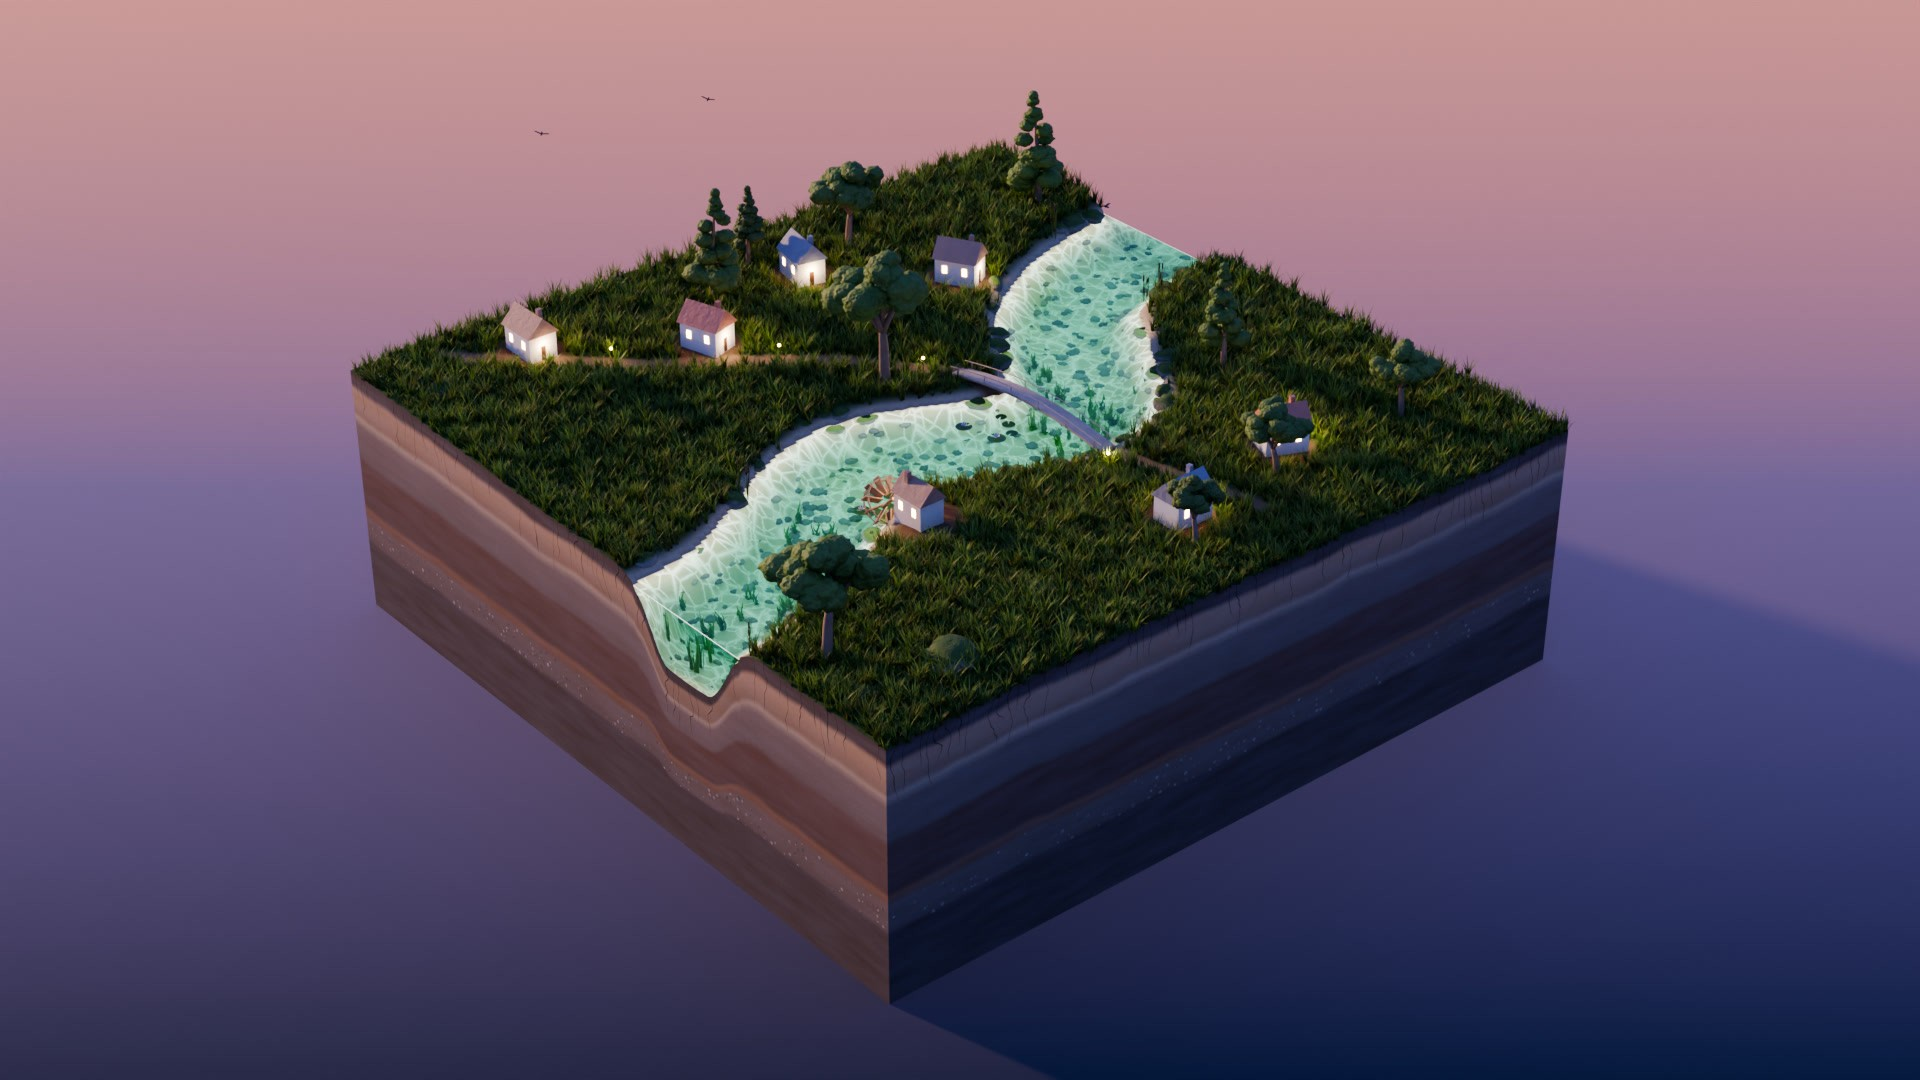
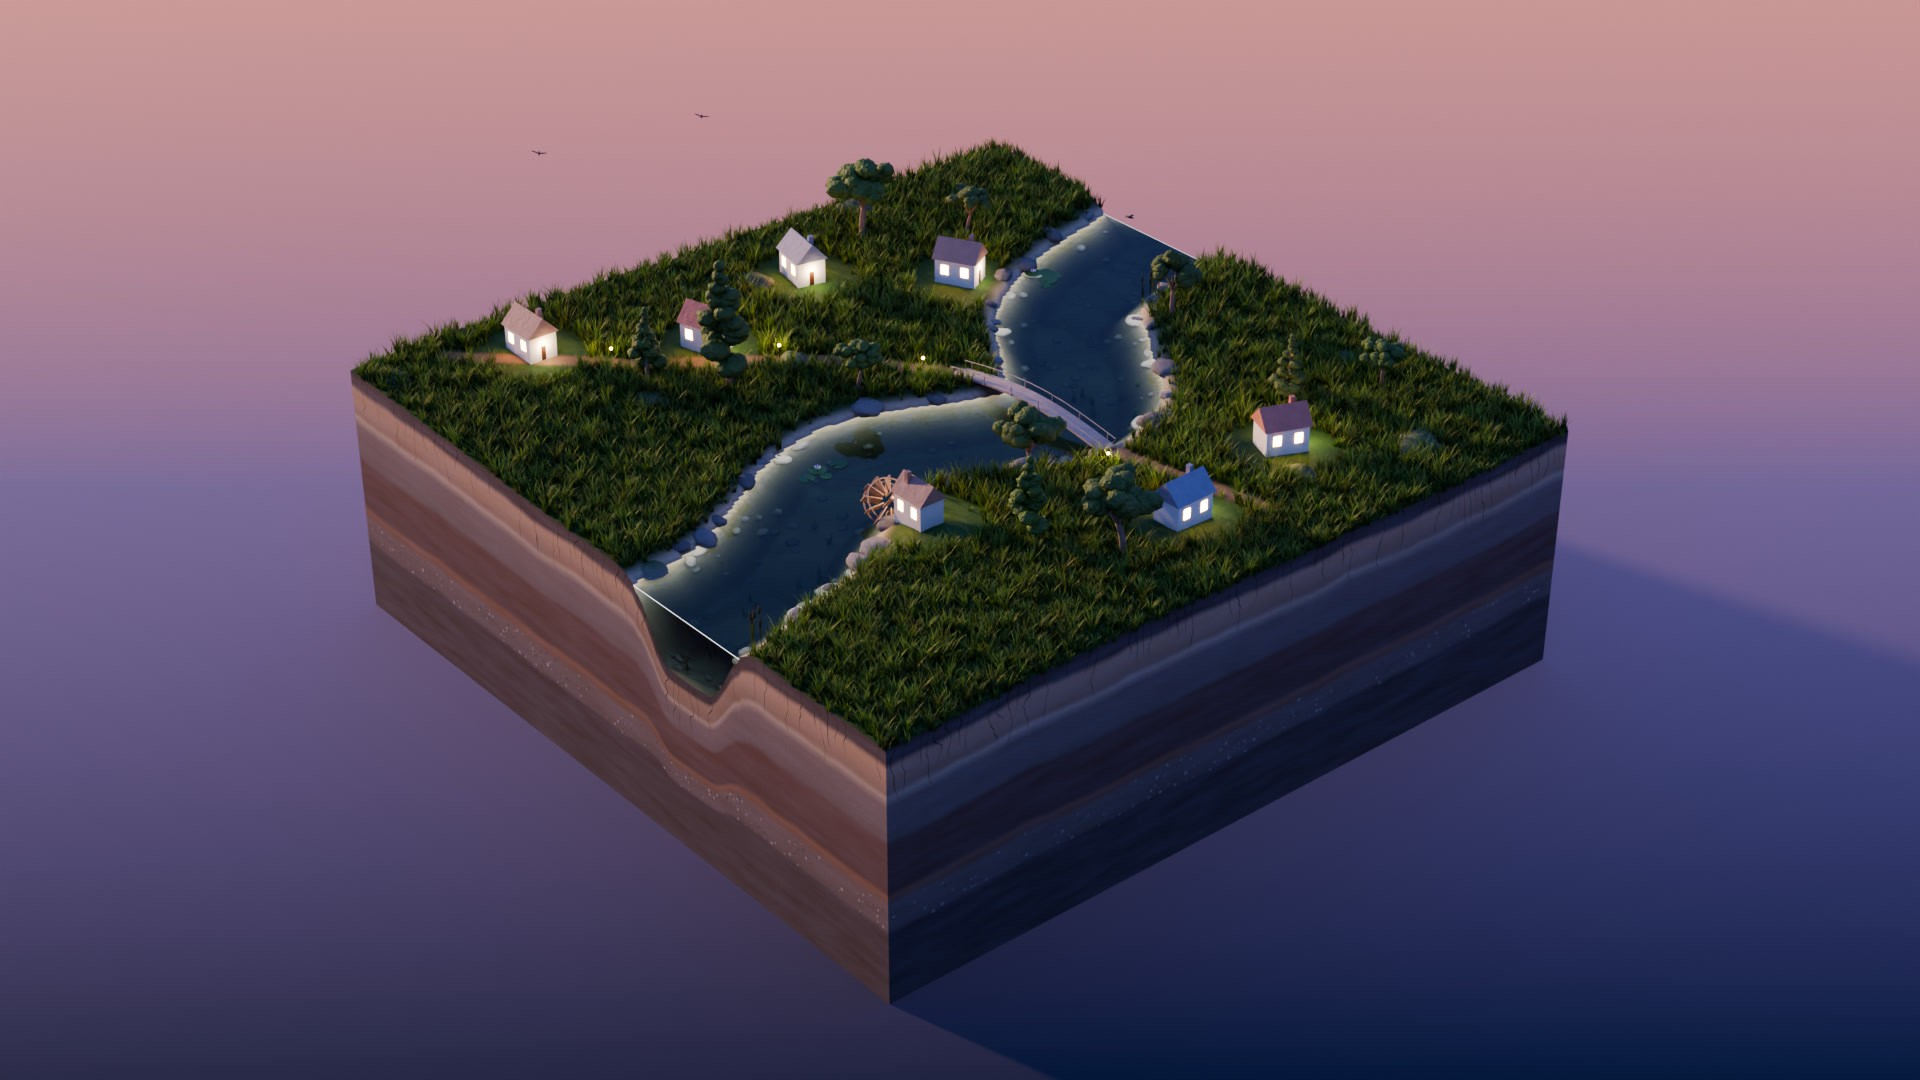
Cutaway: board C lagoon and D mill at dusk (calm water); kit defaults folded in (calm water, round and conifer trees, 9:16 camera lower and fuller); README API and costs
Claude-Session: https://claude.ai/code/session_01CmrfyBEQR6D43ePLhNBsAa

Changed region(s): [[0.1875, 0.0917, 0.8125, 0.6722]]

diff --git a/films/styles/cutaway/cutaway.py b/films/styles/cutaway/cutaway.py
@@ -539,7 +539,7 @@ class Land:
     pass
 
 def block(kit, size=(4.0, 4.0), depth=1.4, strata=None, top=None, water=None, seed=1, season='summer', zones=None,
-          res=0.022, grass=1.0, grass_height=1.0, trees=10, tree_kinds=('round', 'round', 'cone', 'tall'), tree_scale=1.0, boulders=12,
+          res=0.022, grass=1.0, grass_height=1.0, trees=10, tree_kinds=('round', 'round', 'cone'), tree_scale=1.0, boulders=12,
           flowers=0.5, under=True, lilies=0, reeds=0.0, corals=0, shore_rock=0.0, keep_clear=(), tree_spots=None,
           sway=1.0, water_tint=(0.24, 0.82, 0.78), water_density=2.6, water_glow=0.022, bed=((0.80, 0.74, 0.58), (0.70, 0.65, 0.52)), caustics=0.5, bottom=None, name='cw_block'):
     """Build the block. Returns a Land.
@@ -1247,10 +1247,14 @@ class Cam:
             self.pose(base + deg_per_s * duration * e, el, dist)
         else: self.pose(base + deg_per_s * t, el, dist)
 
-def camera(kit, land=None, aspect='16:9', az=-40.0, el=32.0, lens=60.0, fill=0.86, target=None, dist=None, top_extra=0.45, bottom_extra=0.0, name='cw_cam'):
-    """High three-quarter product camera. aspect '16:9' or '9:16' (or a float w/h). fill = fraction of the frame the block
+def camera(kit, land=None, aspect='16:9', az=-40.0, el=None, lens=60.0, fill=None, target=None, dist=None, top_extra=0.45, bottom_extra=0.0, name='cw_cam'):
+    """High three-quarter product camera. aspect '16:9' or '9:16' (or a float w/h); el and fill default per aspect
+    (16:9: el 32, fill 0.86; 9:16: el 27, fill 0.93). fill = fraction of the frame the block
     spans (its bounding box from bottom to top_extra above z=0, so trees fit); the target is re-centred and dist computed
     to fit unless given. Sets scene.camera and the render resolution aspect is the caller's."""
+    vert = aspect == '9:16' or (not isinstance(aspect, str) and float(aspect) < 1)
+    el = (27.0 if vert else 32.0) if el is None else el            # 9:16: lower and closer, so the cut face is big
+    fill = (0.93 if vert else 0.86) if fill is None else fill
     bpy = kit.bpy; cd = bpy.data.cameras.new(name); cd.lens = lens; cd.sensor_width = 36.0; cd.sensor_fit = 'AUTO'
     cd.clip_start = 0.05; cd.clip_end = 200
     ob = bpy.data.objects.new(name, cd); kit.coll.objects.link(ob); bpy.context.scene.camera = ob

diff --git a/films/styles/cutaway/README.md b/films/styles/cutaway/README.md
@@ -62,7 +62,14 @@ those faces (run a river path past the edge, put a pond centre near the edge).
 | `under`, `corals`, `lilies`, `reeds` | underwater stones and weed (True), coral count (0), lily pad count (0), reeds 0..1 (0) |
 | `shore_rock` | 0..1 pale cracked rock shelf around the water (lagoon look) |
 | `keep_clear` | `[(x, y, r)]` no grass or trees there (for buildings) |
-| `sway`, `water_tint`, `water_density` | wind amount, water absorption colour and density |
+| `tree_scale` | multiplies every tree's size (1) |
+| `sway`, `water_tint`, `water_density`, `water_glow` | wind amount; water absorption colour and density; faint turquoise in-scatter glow (0.022; use 0 at dusk or night) |
+| `bed`, `caustics` | two sRGB tones of the sandy underwater floor; strength of the soft caustic bands on the floor (0.5; 0.2 at dusk) |
+
+Defaults are the reviewed ones (22 Oct board): calm water (soft wide caustics on the bed only, gentle low-frequency
+ripple normals, a thin bright meniscus where the surface meets the cut face), round and conifer trees (the `tall` poplar
+reads toy-like at large scale), sparse short underwater weed (dense weed reads as dirt through the glass).
+`keep_clear` circles remove grass blades, flowers, trees and boulders but keep the ground green (for buildings).
 
 `Land` fields and methods: `size`, `depth`, `level`, `pal`, `objects` (dict: `top`, `walls`, `water`, `cw_grass`, ...),
 `mats`, `height(x, y)`, `field(x, y)` (h, signed distance to water, zone weights, depth below the water),
@@ -82,9 +89,15 @@ to the block so it ends flush on the cut faces), `place(obj, x, y, dz)` (stand a
 - `cw.studio(kit, color, key_az, key_el, key, angle, fill, land, shadows)` seamless matte floor, soft key sun, fill; `shadows` > 0 adds drifting cloud shadows.
 - `cw.sky(kit, top, horizon, sun_az, sun_el, sun, clouds, mist, land)` floating-island sky: gradient, cloud cards, mist layers, cloud shadows.
 - `cw.dusk(kit, top, horizon, floor, sun_az, sun_el, sun, land)` dusk studio: blue-to-amber, low warm sun, cool fill.
-- `cw.birds(kit, n, center, radius, height)`; `cw.falling_stones(kit, land, n)`; `cw.cloud_shadows(kit, opacity)`.
-- `cw.camera(kit, land, aspect='16:9'|'9:16', az, el, lens, fill, target, dist)` returns a `Cam`: `pose(az, el, dist, target)`,
-  `orbit(t, deg_per_s, duration)`. Distance is computed so the block fills `fill` of the frame in either aspect.
+- `cw.birds(kit, n, center, radius, height)`; `cw.falling_stones(kit, land, n)`; `cw.hanging_roots(kit, land, n)` (floating block);
+  `cw.cloud_shadows(kit, opacity)` (drifting light).
+- `cw.camera(kit, land, aspect='16:9'|'9:16', az, el, lens, fill, target, dist, top_extra)` returns a `Cam`: `pose(az, el, dist, target)`,
+  `orbit(t, deg_per_s, duration)`. The block's bounding box (bottom to `top_extra` m above z=0, so trees fit) is framed
+  exactly at `fill` and centred, in either aspect. Defaults per aspect: 16:9 el 32 fill 0.86; 9:16 el 27 fill 0.93.
+- Harness glue: `scene.make(look, duration, move='orbit'|'push'|'none', samples, deg, fast, size)`; `fast=True` trims
+  bounces for motion renders; `size=(w, h)` overrides the harness resolution (mixed-aspect stills runs).
+- Helpers others may want: `cw.fbm`, `cw.vnoise`, `cw.cells` (numpy noise), `cw.smooth`, `cw.catmull`, `cw.mk_mesh`,
+  `cw.gn_set(modifier, socket_id, value)` (geometry-nodes inputs in Blender 5.x), `cw.mat_simple`, `cw.mat_rock`, `cw.mat_glow`.
 - `cw.render_settings(bpy, W, H, samples, look, exposure)` for stills; `cw.apply_cycles(bpy)` sets the bounce limits the kit expects.
 
 ### Time and loops
@@ -141,7 +154,7 @@ Everything is free (CPU Cycles on GitHub's free runners). Measured on 22 Oct 202
 | Motion test frame, 1280x720, 32 spp, `fast=True`, denoised | 4-core runner | about 20 to 70 s per frame (from job step times, which include about 60 s of setup per job; job logs are not readable from the chat machine) |
 | Same frame, 48 spp, full bounces | this 2-core chat box | 470 CPU-seconds (so roughly 2 min wall on a free 4-core runner) |
 | Board still 1280x720, 64 spp | 4-core runner | about 1.5 to 6 min per job including setup (dusk is the fastest, the sky look the slowest) |
-| Board still 1920x1080, 128 spp | 4-core runner | about 5 to 12 min per still |
+| Board still 1920x1080, 128 spp | 4-core runner | A studio and B sky: about 7 min each; C lagoon (large glass area) and D dusk (many small lights): about 20 min each |
 | Preview 480x270, 12 spp | this 2-core box (shared) | 60 to 100 s wall |
 
 The 8 s motion test (192 frames) on `films.yml` with 24 parts is 8 frames per part: about 3 to 10 minutes per part.
